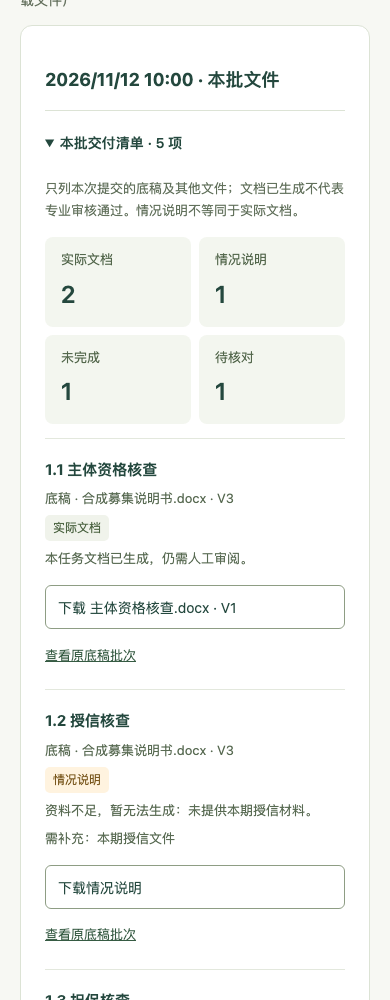
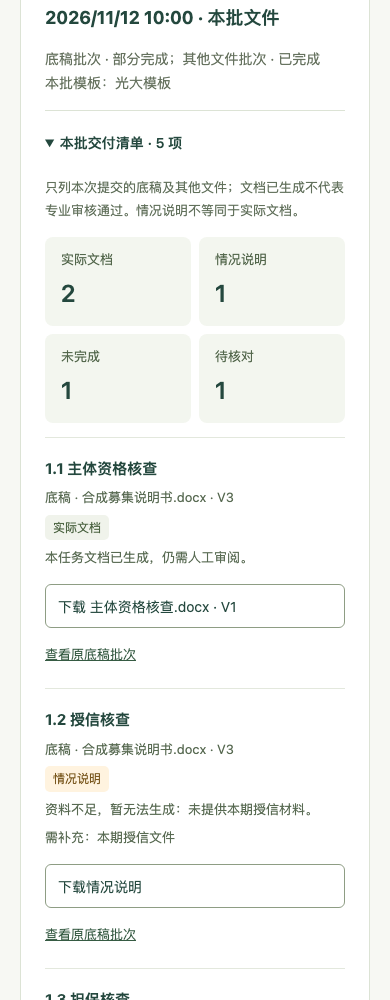
fix(web): retain batch lifecycle and template in delivery history

diff --git a/product-prototype/public/file-delivery-checklist.html b/product-prototype/public/file-delivery-checklist.html
@@ -1,1 +1,1 @@
-<!doctype html><html lang="zh-CN"><meta charset="utf-8"><meta name="viewport" content="width=device-width,initial-scale=1"><title>本批交付清单 · 合成局部原型</title><link rel="stylesheet" href="../../apps/web/src/file-delivery-checklist.css"><style>body{margin:0;background:#f7f8f3;color:#24483e;font:14px/1.65 system-ui,sans-serif}main{max-width:1100px;margin:32px auto;padding:0 20px}.panel{padding:24px;background:white;border:1px solid #dce3d5;border-radius:12px}button,a{font:inherit;color:inherit}button{background:#fff;border:1px solid #8e9d84;border-radius:6px;padding:8px 12px}a{color:#365b43}h1{font-size:24px}h2{font-size:18px}.muted{color:#66725f}</style><main><h1>生成记录</h1><p class="muted">文件生成 · 第 4 步（合成示例，不调用 API、不生成或下载文件）</p><section class="panel"><h2>2026/11/12 10:00 · 本批文件</h2><details class="fg-delivery" open><summary>本批交付清单 · 5 项</summary><div class="fg-delivery-body"><p class="fg-delivery-note">只列本次提交的底稿及其他文件；文档已生成不代表专业审核通过。情况说明不等同于实际文档。</p><dl class="fg-delivery-stats"><div><dt>实际文档</dt><dd>2</dd></div><div><dt>情况说明</dt><dd>1</dd></div><div><dt>未完成</dt><dd>1</dd></div><div><dt>待核对</dt><dd>1</dd></div></dl><ul class="fg-delivery-list"><li><div><strong>1.1 主体资格核查</strong><p>底稿 · 合成募集说明书.docx · V3</p><span class="fg-delivery-tag" data-kind="document">实际文档</span><p>本任务文档已生成，仍需人工审阅。</p></div><div class="fg-delivery-files"><button>下载 主体资格核查.docx · V1</button><a href="#">查看原底稿批次</a></div></li><li><div><strong>1.2 授信核查</strong><p>底稿 · 合成募集说明书.docx · V3</p><span class="fg-delivery-tag" data-kind="explanation">情况说明</span><p>资料不足，暂无法生成：未提供本期授信材料。</p><p>需补充：本期授信文件</p></div><div class="fg-delivery-files"><button>下载情况说明</button><a href="#">查看原底稿批次</a></div></li><li><div><strong>1.3 担保核查</strong><p>底稿 · 合成募集说明书.docx · V3</p><span class="fg-delivery-tag" data-kind="unfinished">未完成</span><p>本次处理未完成；已保存材料保留。</p></div><div class="fg-delivery-files"><a href="#">查看原底稿批次</a></div></li><li><div><strong>立项报告</strong><p>其他文件 · 合成募集说明书.docx · V3</p><span class="fg-delivery-tag" data-kind="document">实际文档</span><p>本任务文档已生成，仍需人工审阅。</p></div><div class="fg-delivery-files"><button>下载 立项报告.docx · V2</button><a href="#">查看原任务</a></div></li><li><div><strong>法律意见书</strong><p>其他文件 · 来源详情待核对</p><span class="fg-delivery-tag" data-kind="unknown">待核对</span><p>本次任务的成果尚未读取完整；不会使用后来同类文件替代。</p></div><div class="fg-delivery-files"><a href="#">查看原任务</a></div></li></ul><p class="fg-delivery-note">资料不足不等于业务不适用。补齐材料后仍需明确准备下一轮，不会自动重跑本批。</p><p role="status" data-delivery-status></p></div></details></section><p class="muted">仅明确本批交付范围与缺口；沿用原步骤、原下载及 ZIP，不新增执行动作。局部视觉待人工验收。</p></main></html>
+<!doctype html><html lang="zh-CN"><meta charset="utf-8"><meta name="viewport" content="width=device-width,initial-scale=1"><title>本批交付清单 · 合成局部原型</title><link rel="stylesheet" href="../../apps/web/src/file-delivery-checklist.css"><style>body{margin:0;background:#f7f8f3;color:#24483e;font:14px/1.65 system-ui,sans-serif}main{max-width:1100px;margin:32px auto;padding:0 20px}.panel{padding:24px;background:white;border:1px solid #dce3d5;border-radius:12px}button,a{font:inherit;color:inherit}button{background:#fff;border:1px solid #8e9d84;border-radius:6px;padding:8px 12px}a{color:#365b43}h1{font-size:24px}h2{font-size:18px}.muted{color:#66725f}</style><main><h1>生成记录</h1><p class="muted">文件生成 · 第 4 步（合成示例，不调用 API、不生成或下载文件）</p><section class="panel"><h2>2026/11/12 10:00 · 本批文件</h2><p class="muted">底稿批次 · 部分完成；其他文件批次 · 已完成<br>本批模板：光大模板</p><details class="fg-delivery" open><summary>本批交付清单 · 5 项</summary><div class="fg-delivery-body"><p class="fg-delivery-note">只列本次提交的底稿及其他文件；文档已生成不代表专业审核通过。情况说明不等同于实际文档。</p><dl class="fg-delivery-stats"><div><dt>实际文档</dt><dd>2</dd></div><div><dt>情况说明</dt><dd>1</dd></div><div><dt>未完成</dt><dd>1</dd></div><div><dt>待核对</dt><dd>1</dd></div></dl><ul class="fg-delivery-list"><li><div><strong>1.1 主体资格核查</strong><p>底稿 · 合成募集说明书.docx · V3</p><span class="fg-delivery-tag" data-kind="document">实际文档</span><p>本任务文档已生成，仍需人工审阅。</p></div><div class="fg-delivery-files"><button>下载 主体资格核查.docx · V1</button><a href="#">查看原底稿批次</a></div></li><li><div><strong>1.2 授信核查</strong><p>底稿 · 合成募集说明书.docx · V3</p><span class="fg-delivery-tag" data-kind="explanation">情况说明</span><p>资料不足，暂无法生成：未提供本期授信材料。</p><p>需补充：本期授信文件</p></div><div class="fg-delivery-files"><button>下载情况说明</button><a href="#">查看原底稿批次</a></div></li><li><div><strong>1.3 担保核查</strong><p>底稿 · 合成募集说明书.docx · V3</p><span class="fg-delivery-tag" data-kind="unfinished">未完成</span><p>本次处理未完成；已保存材料保留。</p></div><div class="fg-delivery-files"><a href="#">查看原底稿批次</a></div></li><li><div><strong>立项报告</strong><p>其他文件 · 合成募集说明书.docx · V3</p><span class="fg-delivery-tag" data-kind="document">实际文档</span><p>本任务文档已生成，仍需人工审阅。</p></div><div class="fg-delivery-files"><button>下载 立项报告.docx · V2</button><a href="#">查看原任务</a></div></li><li><div><strong>法律意见书</strong><p>其他文件 · 来源详情待核对</p><span class="fg-delivery-tag" data-kind="unknown">待核对</span><p>本次任务的成果尚未读取完整；不会使用后来同类文件替代。</p></div><div class="fg-delivery-files"><a href="#">查看原任务</a></div></li></ul><p class="fg-delivery-note">资料不足不等于业务不适用。补齐材料后仍需明确准备下一轮，不会自动重跑本批。</p><p role="status" data-delivery-status></p></div></details></section><p class="muted">仅明确本批交付范围与缺口；沿用原步骤、原下载及 ZIP，不新增执行动作。局部视觉待人工验收。</p></main></html>

diff --git a/apps/web/tests/file-delivery-checklist.spec.ts b/apps/web/tests/file-delivery-checklist.spec.ts
@@ -13,7 +13,7 @@ async function setup(page:import('@playwright/test').Page){
  const entry=(id:string,title:string)=>({id,code:'1.'+id,title,folder:'1',instructions:'',sheet:'目录',row:Number(id),kind:'file' as const,path:title});
  const task={run:{run_id:'doc-original',project_id:w.workspace.topic.project_id,state:'succeeded'},manifest:{kind:'document',topic_id:ids.topic,input:{document_type:'init',project_file:{project_id:ids.api,source_version_id:w.source!.version_id}}},artifacts:[{...pin('doc-artifact'),topic_id:ids.topic,run_id:'doc-original',kind:'document',document_type:'init',filename:'立项报告.docx'}]} as unknown as M4Task;
  w.workspace.tasks=[task,{...structuredClone(task),run:{...task.run,run_id:'later'},artifacts:[{...task.artifacts[0],artifact_id:'later-file',run_id:'later',filename:'后来的立项报告.docx'}]}];
- const batch:FileGenerationBatch={batch_id:'original-parent',created_at:now,points:0,workpapers:{batch_id:'original-wp',topic_id:'wp-topic',catalogue_id:'cat-original',state:'partial',revision:1,source:w.source!,created_at:now,total_points:0,charged_points:0,error:null,items:[
+ const batch:FileGenerationBatch={batch_id:'original-parent',created_at:now,points:0,workpapers:{batch_id:'original-wp',topic_id:'wp-topic',catalogue_id:'cat-original',state:'partial',template_mode:'automatic',revision:1,source:w.source!,created_at:now,total_points:0,charged_points:0,error:null,items:[
   {entry:entry('1','主体资格核查'),run_id:'wp-run',state:'succeeded',stage:null,attempt:1,error:null,artifacts:[{kind:'document',filename:'主体资格核查.docx',pin:pin('wp-artifact')}]},
   {entry:entry('2','授信核查'),run_id:null,state:'succeeded',stage:null,attempt:0,error:null,artifacts:[],explanation:{filename:'授信说明.docx',sha256:sha},decision:{item_id:'2',status:'missing_information',reason:'未提供本期授信材料。',missing_materials:['本期授信文件'],citations:[]}},
   {entry:entry('3','担保核查'),run_id:'failed',state:'failed',stage:null,attempt:1,error:'本次处理未完成；已保存材料保留。',artifacts:[]}
@@ -25,6 +25,7 @@ async function setup(page:import('@playwright/test').Page){
  await page.route('**/api/v1/artifacts/*/download',route=>{control.downloads.push(route.request().url());return route.fulfill({body:bytes,contentType:'application/vnd.openxmlformats-officedocument.wordprocessingml.document'});});
  return {s,w,batch,control};
 }
+for(const [state,label,mode,template] of [['running','正在生成','automatic','光大模板'],['paused','已暂停','selected','所选 Word 模板'],['partial','部分完成','mixed','混合模板']] as const)test(`collapsed history retains ${state} lifecycle and template`,async({page})=>{const {batch}=await setup(page);batch.workpapers!.state=state;batch.workpapers!.template_mode=mode;await page.goto('/'+href({step:'prepare'}));const card=page.locator('[data-delivery-parent-card="original-parent"]');await expect(card.locator('[data-delivery-batch]')).not.toHaveAttribute('open','');await expect(card.locator('[data-delivery-lifecycle]')).toBeVisible();await expect(card.locator('[data-delivery-lifecycle]')).toContainText(label);await expect(card.locator('[data-delivery-template]')).toHaveText('本批模板：'+template);});
 for(const width of [1440,390])test(`accurate mixed delivery list, download and reference comparison ${width}`,async({page})=>{
  const {control}=await setup(page);await page.setViewportSize({width,height:1000});await page.goto('/'+href({step:'prepare',delivery_batch:'original-parent'}));
  const list=page.locator('[data-delivery-batch="original-parent"]');await expect(list).toHaveAttribute('open','');await expect(list.locator('.fg-delivery-list>li')).toHaveCount(5);

diff --git a/apps/web/src/file-generation-panel.ts b/apps/web/src/file-generation-panel.ts
@@ -400,8 +400,9 @@ export class FileGenerationPanel {
   catch{if(this.live())this.deliveryWorkspace=undefined;}
  }
  private batchCard(b:FileGenerationBatch){
-  const rows=deliveryRows(b,this.project,this.deliveryWorkspace);
-  return `<article class="fg-batch fg-delivery-container"><div class="fg-batch"><div><strong>${date(b.created_at)} · ${formatPoints(b.points)} 积分</strong><small>本批 ${rows.length} 项 · 底稿 ${b.workpapers?.items.length??0} 项 · 其他文件 ${b.documents?.items.length??0} 项</small></div>${b.workpapers?`<a class="btn secondary" href="#generate?${esc(new URLSearchParams({project:this.project,step:'workpapers',view:'results',batch:b.workpapers.batch_id}).toString())}">底稿进度与下载</a>`:''}</div>${deliveryChecklistHtml(b,rows,this.expandedDeliveries.has(b.batch_id))}</article>`;
+  const rows=deliveryRows(b,this.project,this.deliveryWorkspace),wp=b.workpapers,docs=b.documents;
+  const lifecycle=[wp?'底稿批次 · '+({queued:'等待生成',running:'正在生成',paused:'已暂停',complete:'已完成',partial:'部分完成',cancelled:'已结束排队'}[wp.state]):'',docs?'其他文件批次 · '+({queued:'等待生成',running:'正在生成',paused:'需要处理',complete:'已完成',cancelled:'已停止后续生成'}[docs.state]):''].filter(Boolean).join('；');
+  return `<article class="fg-batch fg-delivery-container" data-delivery-parent-card="${esc(b.batch_id)}"><div class="fg-batch"><div><strong>${date(b.created_at)} · ${formatPoints(b.points)} 积分</strong><small>本批 ${rows.length} 项 · 底稿 ${wp?.items.length??0} 项 · 其他文件 ${docs?.items.length??0} 项</small><small data-delivery-lifecycle>${esc(lifecycle)}</small>${wp?.template_mode?`<small data-delivery-template>本批模板：${({automatic:'光大模板',selected:'所选 Word 模板',mixed:'混合模板'})[wp.template_mode]}</small>`:''}</div>${b.workpapers?`<a class="btn secondary" href="#generate?${esc(new URLSearchParams({project:this.project,step:'workpapers',view:'results',batch:b.workpapers.batch_id}).toString())}">底稿进度与下载</a>`:''}</div>${deliveryChecklistHtml(b,rows,this.expandedDeliveries.has(b.batch_id))}</article>`;
  }
  private bindDeliveryHistory(){
   this.host.querySelectorAll<HTMLDetailsElement>('[data-delivery-batch]').forEach(details=>{
